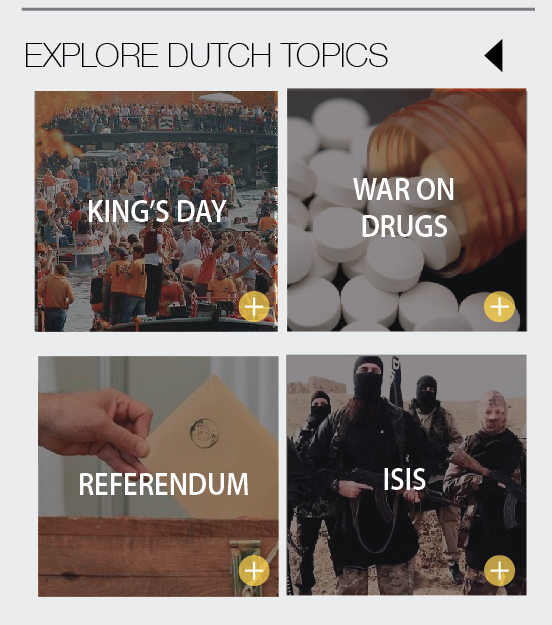
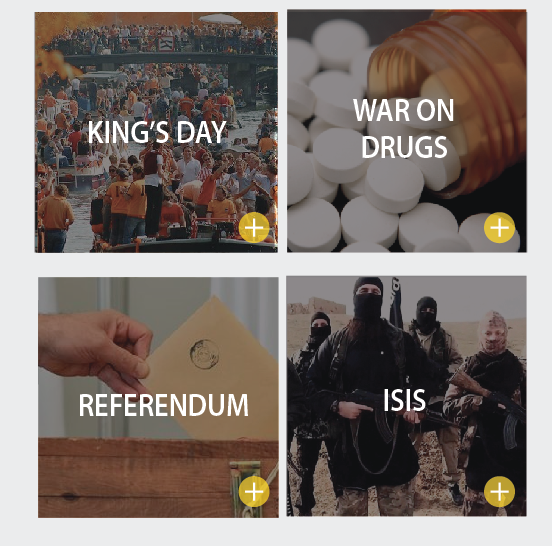
changes explore topics

diff --git a/prototype.html b/prototype.html
@@ -322,8 +322,19 @@
 			<img src="images/searchpublicexplore.png" alt="SearchPublicExplore" />
 			<img src="images/briefingplay.png" alt="BriefingPlay" />
 			<img src="images/topnews.png" alt="TopNews" />
+
+			  <div id="dutchTopics">
+				<hr class="lines">
+				<h2 class="subheaderExDutch">EXPLORE DUTCH TOPICS</h2>
 			<img src="images/dutchtopics.png" alt="DutchTopics" />
+			  </div>
+
+			  <div id="worldTopics">
+				<hr class="lines">
+				<h2 class="subheaderExWorld">EXPLORE WORLD TOPICS</h2>
 			<img src="images/worldtopics.png" alt="WorldTopics" />
+			  </div>
+
 			<img src="images/topvideos.png" alt="TopVideos" />
 			<img src="images/gallery.png" alt="Gallery" />
 		</div>
